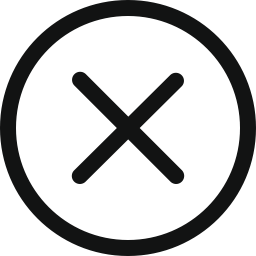
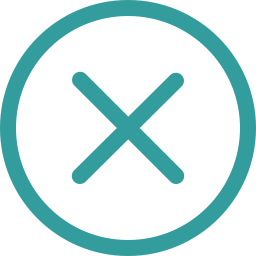
Add item Navigation and Display
Receive Items and Display

Changed region(s): [[0.0, 0.0, 1.0, 1.0], [0.2812, 0.2812, 0.7188, 0.7188]]

diff --git a/shopAssistApp/components/addItem.js b/shopAssistApp/components/addItem.js
@@ -2,14 +2,59 @@ import React, {Component} from 'react';
 import {
     Text,
     View,
-    StyleSheet
+    StyleSheet,
+    TextInput,
+    TouchableOpacity,
+    Image
 } from 'react-native'
 
 class AddItem extends Component {
+    constructor(props) {
+        super(props);
+
+        this.state = {
+            name: '',
+            price: ''
+        };
+    }
+
+
     render() {
         return (
             <View style={styles.container}>
-                <Text></Text>
+                <View style={styles.header}>
+                    <TouchableOpacity onPress={this.props.back}>
+                        <Image style={styles.image} source={require('../assets/back.png')} />
+                    </TouchableOpacity>
+                    <Text style={styles.headerText}>Add Item</Text>
+                    <TouchableOpacity >
+                        <Image style={styles.imageCheck} source={require('../assets/check.png')} />
+                    </TouchableOpacity>
+                </View>
+
+                <View style={styles.box}>
+                    <Text style={styles.questionText}>What's the name of the product?</Text>
+                </View>
+
+                <View style={styles.box}>
+                    <TextInput style={styles.answerText}
+                               placeholder={'Pizza, Flashlight, etc.'}
+                               onChangeText={(name) => this.setState({name})}
+                               value={this.state.name} />
+                </View>
+
+                <View style={styles.box}>
+                    <Text style={styles.questionText}>What's the price of the item?</Text>
+                </View>
+
+                <View style={styles.box}>
+                    <TextInput style={styles.answerText}
+                               placeholder={'8.99'}
+                               onChangeText={(price) => this.setState({price})}
+                               value={this.state.price}
+                    keyboardType={'numeric'}/>
+                </View>
+
             </View>
         );
     }
@@ -19,6 +64,48 @@ const styles = StyleSheet.create({
     container: {
         flex: 1,
         backgroundColor: '#B7EBEB'
+    },
+    header: {
+        flexDirection: 'row',
+        justifyContent: 'space-between',
+        borderBottomWidth: 4,
+        borderBottomColor: '#339C9C',
+        backgroundColor: '#E8F9F9'
+    },
+    headerText: {
+        paddingHorizontal: 10,
+        paddingVertical: 20,
+        fontSize: 30,
+        color: '#339C9C'
+    },
+    box: {
+        marginHorizontal: 20,
+        marginVertical: 10,
+        backgroundColor: '#E8F9F9',
+        borderBottomWidth: 4,
+        borderBottomColor: '#339C9C'
+    },
+    questionText: {
+        fontSize: 20,
+        textAlign: 'center',
+        padding: 14
+    },
+    answerText: {
+        fontSize: 20,
+        textAlign: 'left',
+        padding: 20
+    },
+    image: {
+        width: 30,
+        height: 30,
+        marginVertical: 25,
+        marginHorizontal: 20
+    },
+    imageCheck: {
+        width: 25,
+        height: 25,
+        marginVertical: 25,
+        marginHorizontal: 20
     }
 })
 

diff --git a/shopAssistApp/components/cart.js b/shopAssistApp/components/cart.js
@@ -4,7 +4,7 @@ import {
     View,
     StyleSheet,
     TouchableOpacity,
-    ScrollView
+    ScrollView, Image
 } from 'react-native'
 import Item from './item'
 import AddItem from './addItem'
@@ -14,7 +14,7 @@ class Cart extends Component {
         super(props);
 
         this.state = {
-            cart: false,
+            cart: true,
             budgetColor: '#E8F9F9',
             total: 0,
             items: []
@@ -64,12 +64,12 @@ class Cart extends Component {
             <View style={styles.container}>
                 <View style={[styles.header, {
                     backgroundColor: this.state.budgetColor,}]}>
-                    <TouchableOpacity style={{width: 50, height: 50}} onPress={this.props.back}>
-                        <Text style={styles.headerText}>{'<'}</Text>
+                    <TouchableOpacity onPress={this.props.back}>
+                        <Image style={styles.image} source={require('../assets/back.png')} />
                     </TouchableOpacity>
                     <Text style={styles.headerText}>Current Trip</Text>
-                    <TouchableOpacity style={{width: 50, height: 50}}>
-                        <Text style={styles.headerText}>+</Text>
+                    <TouchableOpacity onPress={() => this.switchCart()}>
+                        <Image style={styles.imageAdd} source={require('../assets/add.png')} />
                     </TouchableOpacity>
                 </View>
 
@@ -89,7 +89,7 @@ class Cart extends Component {
     // The Add Item Screen
     renderItem() {
         return (
-            <AddItem />
+            <AddItem back={this.switchCart}/>
         );
     }
 
@@ -122,6 +122,18 @@ const styles = StyleSheet.create({
         marginHorizontal: 10,
         backgroundColor: '#E8F9F9',
         marginVertical: 10
+    },
+    image: {
+        width: 30,
+        height: 30,
+        marginVertical: 25,
+        marginHorizontal: 20
+    },
+    imageAdd: {
+        width: 25,
+        height: 25,
+        marginVertical: 25,
+        marginHorizontal: 20
     }
 });
 

diff --git a/shopAssistApp/components/item.js b/shopAssistApp/components/item.js
@@ -11,9 +11,9 @@ class Item extends Component {
     render() {
         return (
             <View style={styles.item}>
-                <Text style={{fontSize: 20, marginVertical: 20}}>{this.props.name}</Text>
+                <Text style={{fontSize: 20, marginVertical: 20, color: '#339C9C'}}>{this.props.name}</Text>
                 <View style={{flexDirection: 'row'}}>
-                    <Text style={{fontSize: 20, marginHorizontal: 10, marginVertical:20}}>${parseFloat(Math.round(this.props.price * 100) / 100).toFixed(2)}</Text>
+                    <Text style={{fontSize: 20, marginHorizontal: 10, marginVertical:20, color: '#339C9C'}}>${parseFloat(Math.round(this.props.price * 100) / 100).toFixed(2)}</Text>
                     <TouchableOpacity style={{marginVertical:17}}>
                         <Image style={styles.image} source={require('../assets/cancel.png')}/>
                     </TouchableOpacity>
